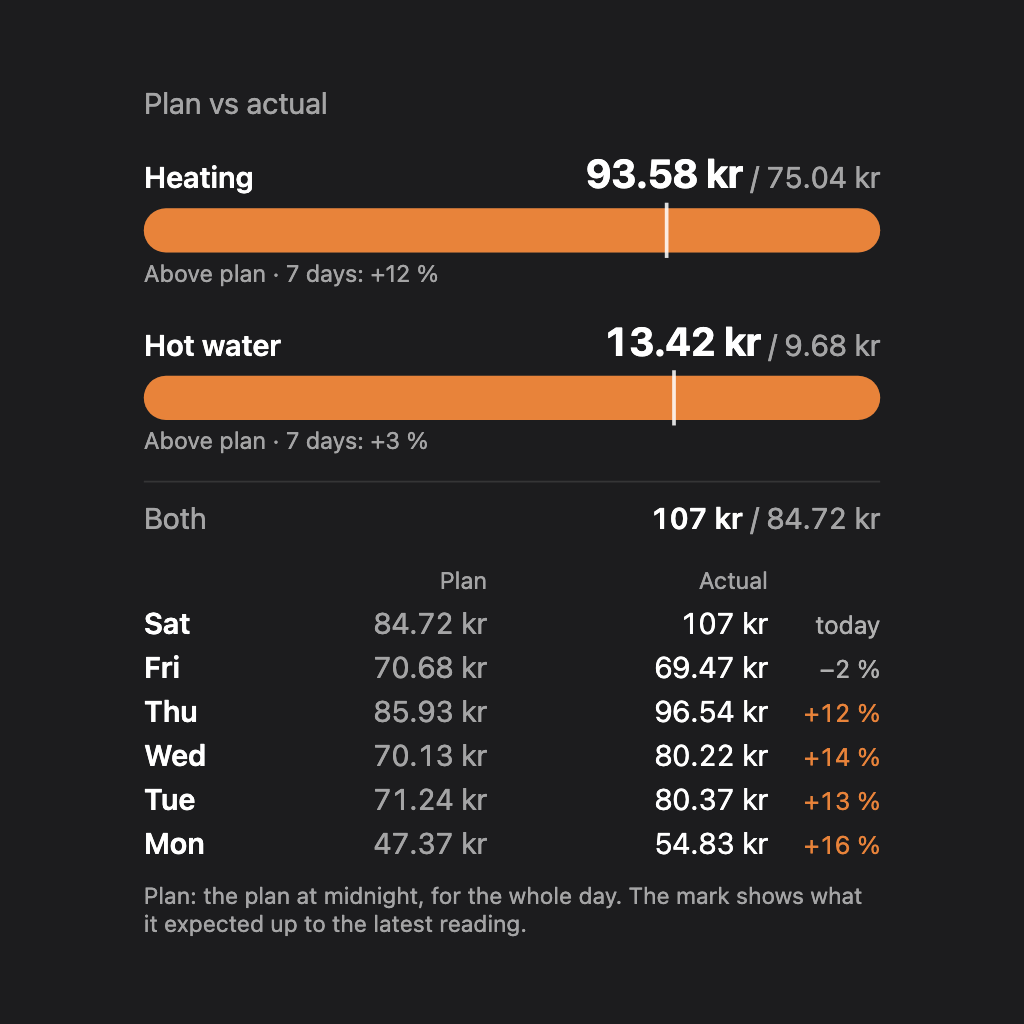
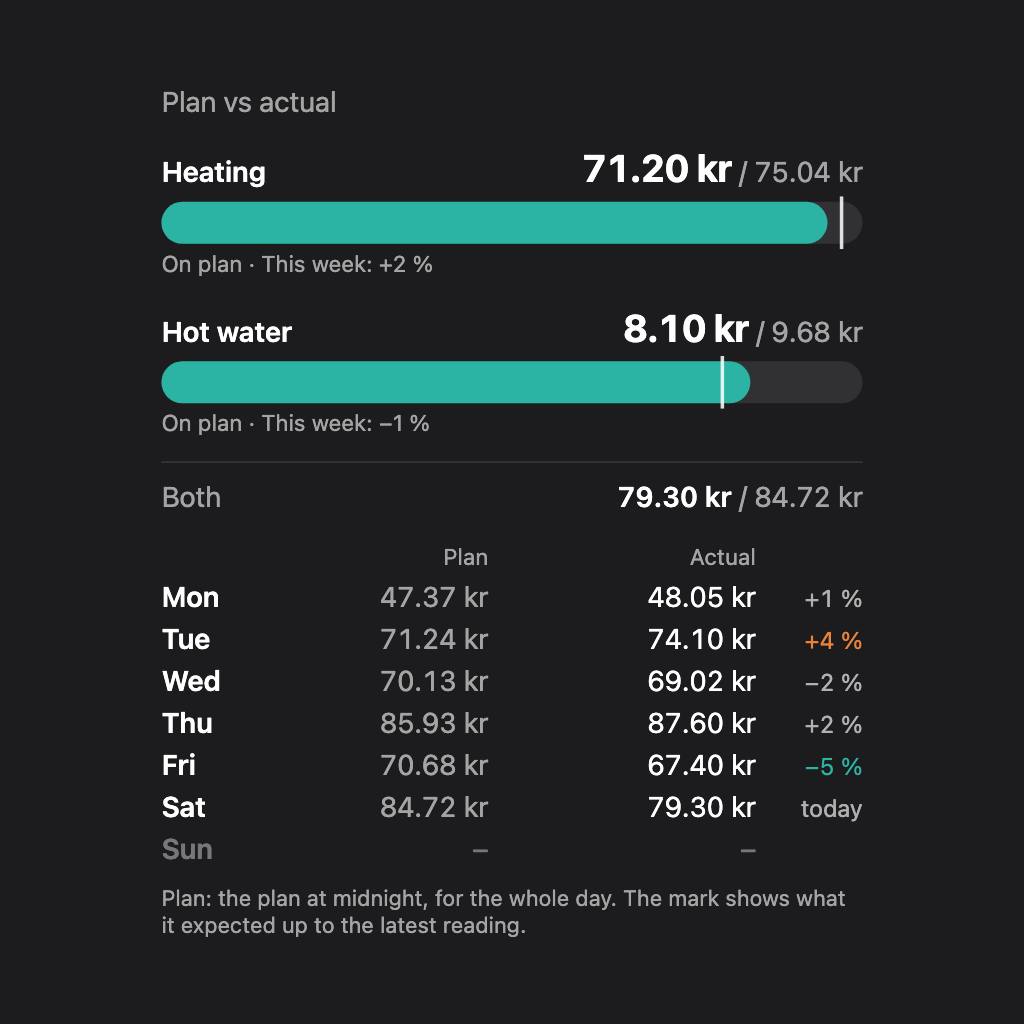
Plan vs actual: cost the plan at its own COP, show this week Mon to Sun
Heating's plan was costed at the 30-day COP. In this cold week that ran
4-11 % above the real COP (3.51 falling to 3.22 against 3.66-3.58), so
every day read above plan. Each slot is now costed at the COP the plan
priced it at (the learned COP); the 30-day COP only while that model is
not trusted.

The day table is the current week, Monday to Sunday, days to come dimmed;
the note under each bar covers the same days ("This week"). Store
previews regenerated.

diff --git a/lib/autopilot/cost-check.ts b/lib/autopilot/cost-check.ts
@@ -97,7 +97,7 @@ export interface CostCheckData {
     empty?: string;
     rows?: {label: string; sofar: string; expected: string; fill: number; mark?: number; tone: 'ahead' | 'behind' | 'even'; note: string}[];
     total?: {label: string; sofar: string; expected: string};
-    days?: {head: string[]; rows: {label: string; expected: string; actual: string; diff: string; tone: 'under' | 'over' | 'even' | 'today'}[]};
+    days?: {head: string[]; rows: {label: string; expected: string; actual: string; diff: string; tone: 'under' | 'over' | 'even' | 'today' | 'later'}[]};
     footnote?: string;
 }
 
@@ -117,12 +117,17 @@ export function costCheckData(title: string, ledgers: CostLedger[], today: strin
     dayLabel: (date: string) => string): CostCheckData {
     const withDays = ledgers.filter((l) => l.days.length);
     if (!withDays.length) return {title, empty: t('empty')};
+    const week = weekDates(today);
     const pct = (v: number | undefined) => v === undefined ? '' : `${v > 0 ? '+' : v < 0 ? '−' : '±'}${Math.abs(v)} %`;
     const rows = withDays.map((l) => {
         const day = l.days.find((d) => d.date === today);
-        const past = l.days.filter((d) => d.date < today && d.done).map((d) => dayTotals(d)).filter((s) => s.complete);
-        const week = past.length ? overShare(past.reduce((s, d) => s + d.expected, 0), past.reduce((s, d) => s + d.actual, 0)) : undefined;
-        const weekNote = week === undefined ? t('first_day') : t('week', {share: pct(week)});
+        // This week's finished days, Monday on, as the table below shows them. A Monday has none
+        // yet: the bar then says only how today goes.
+        const past = l.days.filter((d) => d.date >= week[0] && d.date < today && d.done).map((d) => dayTotals(d)).filter((s) => s.complete);
+        const share = past.length ? overShare(past.reduce((s, d) => s + d.expected, 0), past.reduce((s, d) => s + d.actual, 0)) : undefined;
+        // No finished day at all yet: the first one is still to come.
+        const finished = l.days.some((d) => d.date < today && d.done && dayTotals(d).complete);
+        const weekNote = share !== undefined ? t('week', {share: pct(share)}) : finished ? undefined : t('first_day');
         if (!day) return {label: l.label, sofar: '–', expected: money(0), fill: 0, tone: 'even' as const, note: t('no_plan_today')};
         const s = dayTotals(day);
         const scale = Math.max(s.expected, s.actual, 1e-9);
@@ -131,16 +136,18 @@ export function costCheckData(title: string, ledgers: CostLedger[], today: strin
         return {label: l.label, sofar: money(s.actual), expected: money(s.expected), fill: round(s.actual / scale),
             // No reading yet: nothing to say about pace.
             ...s.known && !s.complete ? {mark: round(s.expectedKnown / scale)} : {}, tone,
-            note: s.known ? `${t(`pace_${tone}`)} · ${weekNote}` : weekNote};
+            note: [s.known ? t(`pace_${tone}`) : undefined, weekNote].filter(Boolean).join(' · ')};
     });
     const todays = withDays.map((l) => l.days.find((d) => d.date === today)).filter((d): d is CostDay => !!d).map((d) => dayTotals(d));
     const total = withDays.length > 1 && todays.length ? {label: t('both'),
         sofar: money(todays.reduce((s, d) => s + d.actual, 0)), expected: money(todays.reduce((s, d) => s + d.expected, 0))} : undefined;
-    // The day list: each date with a plan, both functions summed, newest first. A past day shows
-    // its result only once every function's hours are in.
-    const dates = [...new Set(withDays.flatMap((l) => l.days.map((d) => d.date)))].sort().reverse().slice(0, 7);
-    const dayRows = dates.map((date) => {
+    // The day list: this week, Monday to Sunday, both functions summed. A day to come, or one
+    // without a plan, shows dashes; a past day shows its result only once every function's hours
+    // are in.
+    const dayRows = week.map((date) => {
         const sums = withDays.map((l) => l.days.find((d) => d.date === date)).filter((d): d is CostDay => !!d).map((d) => dayTotals(d));
+        if (date > today) return {label: dayLabel(date), expected: '–', actual: '–', diff: '', tone: 'later' as const};
+        if (!sums.length) return {label: dayLabel(date), expected: '–', actual: '–', diff: '', tone: 'even' as const};
         const expected = sums.reduce((s, d) => s + d.expected, 0), actual = sums.reduce((s, d) => s + d.actual, 0);
         if (date === today) return {label: dayLabel(date), expected: money(expected), actual: money(actual), diff: t('today'), tone: 'today' as const};
         if (!sums.every((d) => d.complete)) return {label: dayLabel(date), expected: money(expected), actual: '–', diff: '', tone: 'even' as const};
@@ -149,6 +156,13 @@ export function costCheckData(title: string, ledgers: CostLedger[], today: strin
             tone: share === undefined || Math.abs(share) < 3 ? 'even' as const : share > 0 ? 'over' as const : 'under' as const};
     });
     return {title, rows, total, days: {head: [t('plan'), t('actual')], rows: dayRows}, footnote: t('footnote')};
+}
+
+/** The seven dates, Monday to Sunday, of the week `date` ('YYYY-MM-DD') falls in. */
+export function weekDates(date: string): string[] {
+    const noon = Date.parse(`${date}T12:00:00Z`);
+    const back = (new Date(noon).getUTCDay() + 6) % 7;
+    return Array.from({length: 7}, (_, k) => new Date(noon + (k - back) * 24 * HOUR).toISOString().slice(0, 10));
 }
 
 function round(v: number) {

diff --git a/test/cost-check.test.ts b/test/cost-check.test.ts
@@ -1,6 +1,6 @@
 import {test} from 'node:test';
 import assert from 'node:assert/strict';
-import {addDay, chargeCosts, costCheckData, costDay, dayTotals, fillActual, overShare, COST_CHECK_DAYS} from '../lib/autopilot/cost-check';
+import {addDay, chargeCosts, costCheckData, costDay, dayTotals, fillActual, overShare, weekDates, COST_CHECK_DAYS} from '../lib/autopilot/cost-check';
 
 const H = 3_600_000;
 const from = Date.UTC(2026, 10, 16, 6); // 07:00 Stockholm
@@ -72,20 +72,43 @@ test('pace compares only the hours that have a reading', () => {
     assert.equal(data.total, undefined, 'no "both" line with one function');
 });
 
-test('the day list sums both functions and shows a past day only when complete', () => {
+test('the day list is this week, Monday to Sunday, and shows a past day only when complete', () => {
     const day = (date: string, exp: number, act: number | null) => ({date, from, until: from + H, expected: [exp], actual: [act], done: true});
-    const heating = [day('2026-11-14', 10, 11), day('2026-11-15', 10, 9), {...day('2026-11-16', 10, null), done: undefined}];
-    const hotwater = [day('2026-11-14', 2, 2.2), day('2026-11-15', 2, null)];
-    const data = costCheckData('T', [{label: 'Heating', days: heating}, {label: 'Hot water', days: hotwater}], '2026-11-16', from, t, money, (x) => x);
+    // 2026-11-18 is a Wednesday: Sunday the 15th is last week and stays out.
+    const heating = [day('2026-11-15', 50, 80), day('2026-11-16', 10, 11), day('2026-11-17', 10, 9), {...day('2026-11-18', 10, null), done: undefined}];
+    const hotwater = [day('2026-11-16', 2, 2.2), day('2026-11-17', 2, null)];
+    const data = costCheckData('T', [{label: 'Heating', days: heating}, {label: 'Hot water', days: hotwater}], '2026-11-18', from, t, money, (x) => x);
     assert.deepEqual(data.days!.rows.map((r) => [r.label, r.expected, r.actual, r.diff, r.tone]), [
-        ['2026-11-16', '10.00', '0.00', 'today', 'today'],
-        ['2026-11-15', '12.00', '–', '', 'even'],
-        ['2026-11-14', '12.00', '13.20', '+10 %', 'over'],
+        ['2026-11-16', '12.00', '13.20', '+10 %', 'over'],
+        ['2026-11-17', '12.00', '–', '', 'even'],
+        ['2026-11-18', '10.00', '0.00', 'today', 'today'],
+        ['2026-11-19', '–', '–', '', 'later'],
+        ['2026-11-20', '–', '–', '', 'later'],
+        ['2026-11-21', '–', '–', '', 'later'],
+        ['2026-11-22', '–', '–', '', 'later'],
     ]);
     assert.equal(data.total!.expected, '10.00');
     assert.equal(data.rows![1].note, 'no_plan_today');
     assert.equal(data.rows![0].mark, undefined, 'no mark before the first reading');
+    // Heating's week: Monday and Tuesday (20 planned, 20 spent); last Sunday's +60 % left out.
     assert.equal(data.rows![0].note, 'week(±0 %)');
+});
+
+test('a Monday has no finished day this week: the bar says only how today goes', () => {
+    const last = {date: '2026-11-15', from, until: from + H, expected: [10], actual: [20], done: true};
+    const today = {...costDay('2026-11-16', from, from + 2 * H, [{at: from, cost: 1}, {at: from + H, cost: 1}]), actual: [1, null]};
+    const data = costCheckData('T', [{label: 'Heating', days: [last, today]}], '2026-11-16', from + 2 * H, t, money, (x) => x);
+    assert.equal(data.rows![0].note, 'pace_even');
+    assert.equal(costCheckData('T', [{label: 'Heating', days: [{...today, actual: [null, null]}]}], '2026-11-16', from, t, money, (x) => x).rows![0].note,
+        'first_day', 'nothing before today at all: the first full day is still to come');
+    const open = {...last, actual: [null], done: undefined};
+    assert.equal(costCheckData('T', [{label: 'Heating', days: [open, {...today, actual: [null, null]}]}], '2026-11-16', from, t, money, (x) => x).rows![0].note,
+        'first_day', 'yesterday still waiting for its last hours: still no finished day');
+});
+
+test('weekDates runs Monday to Sunday, across a month', () => {
+    assert.deepEqual(weekDates('2026-11-30'), ['2026-11-30', '2026-12-01', '2026-12-02', '2026-12-03', '2026-12-04', '2026-12-05', '2026-12-06']);
+    assert.equal(weekDates('2026-11-29')[0], '2026-11-23');
 });
 
 test('no plans yet: one line', () => {

diff --git a/lib/autopilot/live.ts b/lib/autopilot/live.ts
@@ -14,7 +14,7 @@
 import {ActuatorOutput, PumpThresholds, RAMP_K_PER_SLOT, fedValue} from './actuator';
 import {HouseParams, envelopeTau} from './model';
 import {ForecastBias, OutdoorReading, realOutdoor} from './outdoor';
-import {COP, Comfort, ForecastSlot, Plan, PumpCurve, planShift, simulate} from './planner';
+import {COP, Comfort, ForecastSlot, Plan, PumpCurve, planShift, pricesByCop, simulate} from './planner';
 import {CopModel} from './cop';
 import {SupplyCurve, curveInputFor} from './curve';
 import {effectivePrice} from './solar-surplus';
@@ -391,9 +391,10 @@ export interface FeedHooks {
     debug?(): string;
     /** One record per slot for the shadow log. */
     record(entry: LiveEntry): void;
-    /** Each new plan: its first slot, the forecast it used (prices) and the heat it plans per slot,
-     *  kWh. Plan vs actual (cost-check.ts) keeps the day's first. */
-    planned?(slot: number, forecast: ForecastSlot[], heat: number[]): void;
+    /** Each new plan: its first slot, the forecast it used (prices), the heat it plans per slot
+     *  (kWh) and, when the plan priced that heat by the learned COP, the COP of each slot.
+     *  Plan vs actual (cost-check.ts) keeps the day's first. */
+    planned?(slot: number, forecast: ForecastSlot[], heat: number[], cop?: number[]): void;
     setTimeout(fn: () => void, ms: number): any;
     clearTimeout(timer: any): void;
     sleep(ms: number): Promise<void>;
@@ -740,7 +741,7 @@ export class HeatingFeed {
             back: warmingUp(comfort) ? back!.at : undefined};
         this.hooks.record({slot, bias: this.bias, trim: this.trim, setpoint: this.setpoint, fed: this.lastFed?.fed, real: this.real?.value,
             source: this.real?.source, clamped: this.lastFed?.clamped ?? [], planned: plan.biases.slice(0, 8), reason});
-        this.hooks.planned?.(slot, input!.forecast, plan.plan.heat);
+        this.hooks.planned?.(slot, input!.forecast, plan.plan.heat, pricesByCop(livePump(input!)) ? plan.plan.cop : undefined);
         this.hooks.changed();
         return undefined;
     }

diff --git a/lib/device.ts b/lib/device.ts
@@ -2173,10 +2173,15 @@ export abstract class NibePumpDevice extends Device implements PumpSubscriber {
                     + `(calculated ${v('measure_temperature.i1017_calculated_supply')}), degree minutes ${v('measure_degree_minutes_NIBE.h11_degree_minutes')}`;
             },
             record: (entry) => collector.recordLive(entry),
-            planned: (slot, forecast, heat) => {
-                const cop = Number(this.getCapabilityValue('measure_cop_NIBE.rolling'));
-                const use = Number.isFinite(cop) && cop > 1 ? cop : COP;
-                this.noteCostPlan(slot * SLOT_MS, forecast.map((f, k) => ({at: (slot + k) * SLOT_MS, cost: (heat[k] ?? 0) / use * f.price})));
+            // Each slot's heat at the COP the plan priced it at (the learned COP, which follows the
+            // supply and the brine), so the check holds the plan to its own figures. Without a
+            // trusted COP the plan used a constant: the 30-day COP is closer than that. The 30-day
+            // COP alone ran 4–11 % under a cold week's real one (2026-11-23…27).
+            planned: (slot, forecast, heat, cop) => {
+                const rolling = Number(this.getCapabilityValue('measure_cop_NIBE.rolling'));
+                const fallback = Number.isFinite(rolling) && rolling > 1 ? rolling : COP;
+                const at = (k: number) => (cop && cop[k] > 1 ? cop[k] : fallback);
+                this.noteCostPlan(slot * SLOT_MS, forecast.map((f, k) => ({at: (slot + k) * SLOT_MS, cost: (heat[k] ?? 0) / at(k) * f.price})));
             },
             setTimeout: (fn, ms) => this.homey.setTimeout(fn, ms),
             clearTimeout: (timer) => this.homey.clearTimeout(timer),

diff --git a/widgets/cost_check/public/index.html b/widgets/cost_check/public/index.html
@@ -29,6 +29,7 @@
       .cc-days .x { text-align: right; font-size: 0.85em; min-width: 3.6em; opacity: 0.65; }
       .cc-days .x.over { color: var(--cc-over); opacity: 1; }
       .cc-days .x.under { color: var(--cc-good); opacity: 1; }
+      .cc-days span.later { opacity: 0.4; }
       .cc-foot { margin-top: 12px; font-size: 0.78em; opacity: 0.6; }
       .cc-empty { opacity: 0.8; margin: 12px 0; }
       :root { --cc-good: #0f8374; --cc-over: #b4500c; }
@@ -99,7 +100,7 @@
             bar.appendChild(mark);
           }
           row.appendChild(bar);
-          row.appendChild(el('div', 'cc-note', r.note));
+          if (r.note) row.appendChild(el('div', 'cc-note', r.note));
           root.appendChild(row);
         });
         if (data.total) {
@@ -119,9 +120,11 @@
           grid.appendChild(el('span', 'h', data.days.head[1]));
           grid.appendChild(el('span'));
           data.days.rows.forEach(function (d) {
-            grid.appendChild(el('span', 'd', d.label));
-            grid.appendChild(el('span', 'p', d.expected));
-            grid.appendChild(el('span', 'a', d.actual));
+            // A day still to come is dimmed, the whole row.
+            var later = d.tone === 'later' ? ' later' : '';
+            grid.appendChild(el('span', 'd' + later, d.label));
+            grid.appendChild(el('span', 'p' + later, d.expected));
+            grid.appendChild(el('span', 'a' + later, d.actual));
             grid.appendChild(el('span', 'x ' + d.tone, d.diff));
           });
           root.appendChild(grid);

diff --git a/docs/autopilot-plan.md b/docs/autopilot-plan.md
@@ -1869,6 +1869,12 @@ never swallow them.
     expected each function's electricity to cost over the day, against what it cost. Hot water
     was held to its 07:00 morning plan until 2026-11-25, so a night or 06:00 run fell outside
     its day and the day did not match Homey Energy. It now takes the first plan of the date.
+    Heating's plan was costed at the 30-day COP until 2026-11-27. In a cold week that ran
+    4–11 % above the real COP (3.51 on Monday falling to 3.22 on Friday, against 3.66–3.58), so
+    every day showed above plan. It is now costed at the COP the plan priced each slot at (the
+    learned COP, which follows supply and brine), and at the 30-day COP only while that model is
+    not trusted. The table shows the current week, Monday to Sunday, and the note under each bar
+    covers the same days.
 
 ---
 
